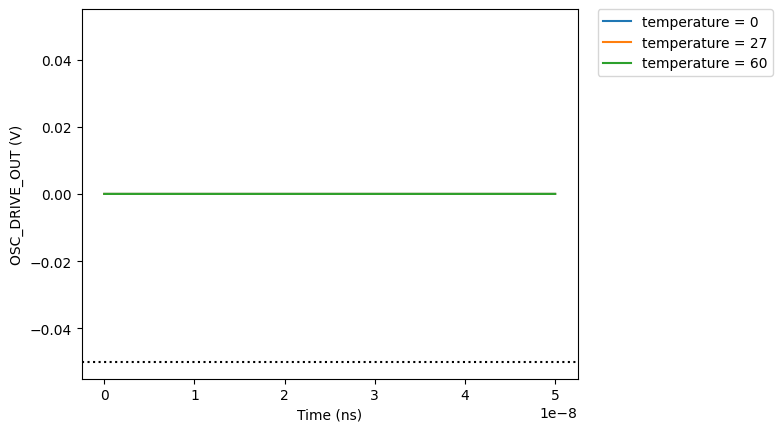
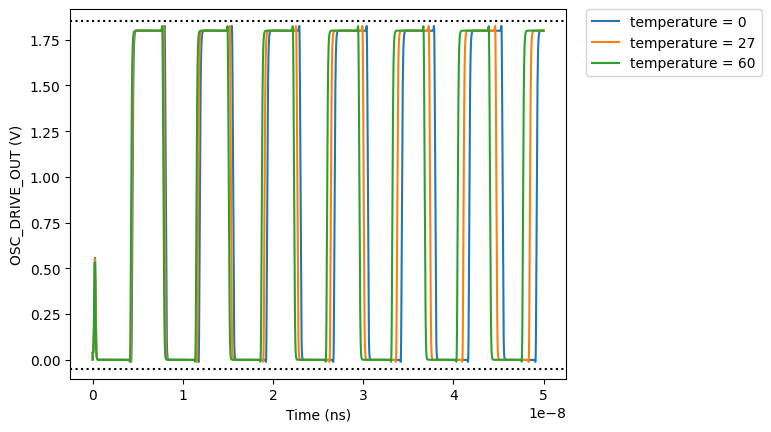
add cace action and cleanups

diff --git a/docs/tt-ring-oscillator-test-hd_schematic.md b/docs/tt-ring-oscillator-test-hd_schematic.md
@@ -6,7 +6,7 @@
 |      Parameter       |         Tool         |     Result      | Min Limit  |  Min Value   | Typ Target |  Typ Value   | Max Limit  |  Max Value   |  Status  |
 | :------------------- | :------------------- | :-------------- | ---------: | -----------: | ---------: | -----------: | ---------: | -----------: | :------: |
 | Enable Signal        | ngspice              | ENABLE               |           1.7 V |    1.800 V |        1.8 V |    1.800 V |        1.8 V |    1.800 V |   Pass ✅    |
-| Oscillator Output    | ngspice              | OSC_DRIVE_OUT        |         -0.05 V |    0.000 V |          any |    0.000 V |       1.85 V |    0.000 V |   Pass ✅    |
+| Oscillator Output    | ngspice              | OSC_DRIVE_OUT        |         -0.05 V |   -0.012 V |          any |    0.104 V |       1.85 V |    1.826 V |   Pass ✅    |
 
 
 ## Plots
